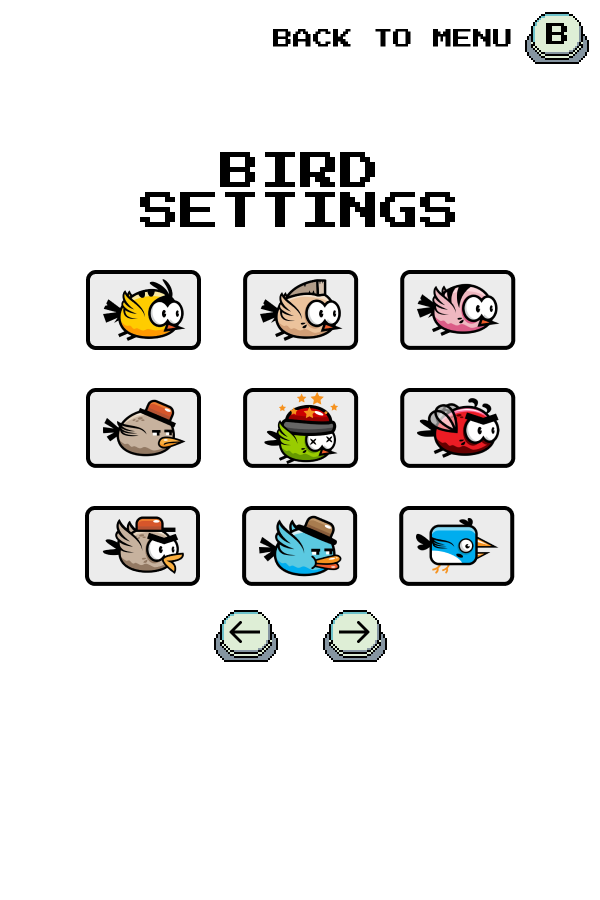
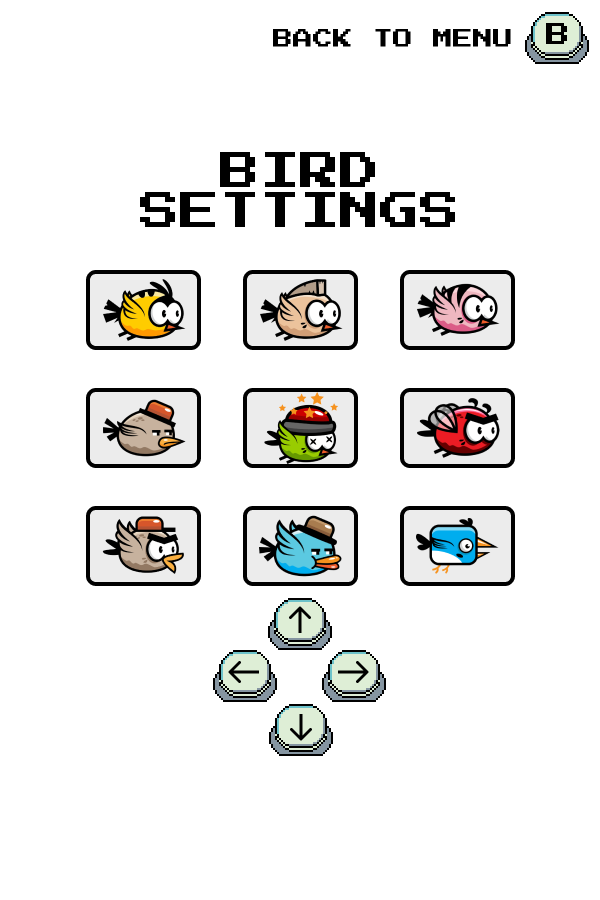
Add bird settings

diff --git a/main.py b/main.py
@@ -13,21 +13,18 @@ BACKGROUND_SETTINGS_LAYOUT = pygame.image.load('assets/layouts/background-settin
 BIRD_SETTINGS_LAYOUT = pygame.image.load('assets/layouts/bird-settings-layout.png')
 COLUMN_SETTINGS_LAYOUT = pygame.image.load('assets/layouts/column-settings-layout.png')
 VERTICAL_FRAME = pygame.image.load('assets/vertical-frame.png')
+HORIZONTAL_FRAME = pygame.image.load('assets/horizontal-frame.png')
 
 class Bird(pygame.sprite.Sprite):
     def __init__(self):
         pygame.sprite.Sprite.__init__(self)
 
-        self.birds = [
-            [
-                pygame.image.load('assets/birds/bird-0-up.png').convert_alpha(),
-                pygame.image.load('assets/birds/bird-0-down.png').convert_alpha()
-            ],
-            [
-                pygame.image.load('assets/birds/bird-1-up.png').convert_alpha(),
-                pygame.image.load('assets/birds/bird-1-down.png').convert_alpha()
-            ]
-        ]
+        self.birds = []
+        for i in range(9):
+            self.birds.append([
+                pygame.image.load(f'assets/birds/bird-{i}-up.png').convert_alpha(),
+                pygame.image.load(f'assets/birds/bird-{i}-down.png').convert_alpha()
+            ])
         self.fall = 0
         self.current_image = 0
         self.current_bird_idx = 0
@@ -40,9 +37,25 @@ class Bird(pygame.sprite.Sprite):
         self.rect[0] = settings.BIRD_INIT_X
         self.rect[1] = settings.BIRD_INIT_Y
 
-    def change_bird(self):
-        self.current_image = (self.current_bird_idx + 1) % len(self.birds)
-        self.current_bird = self.birds[self.current_bird_idx]
+    def change_bird_right(self):
+        if (self.current_bird_idx % 3 != 2):
+            self.current_bird_idx = (self.current_bird_idx + 1) % 9
+            self.current_bird = self.birds[self.current_bird_idx]
+
+    def change_bird_left(self):
+        if (self.current_bird_idx % 3 != 0):
+            self.current_bird_idx = (self.current_bird_idx - 1) % 9
+            self.current_bird = self.birds[self.current_bird_idx]
+    
+    def change_bird_up(self):
+        if (self.current_bird_idx // 3 != 0):
+            self.current_bird_idx = (self.current_bird_idx - 3) % 9
+            self.current_bird = self.birds[self.current_bird_idx]
+    
+    def change_bird_down(self):
+        if (self.current_bird_idx // 3 != 2):
+            self.current_bird_idx = (self.current_bird_idx + 3) % 9
+            self.current_bird = self.birds[self.current_bird_idx]
     
     def set_beige_bird(self):
         self.current_bird = self.birds['beige']
@@ -123,6 +136,30 @@ def background_settings_screen():
         )
     )
 
+def bird_settings_screen():
+    for event in pygame.event.get():
+        if event.type == pygame.QUIT:
+            pygame.quit()
+        elif event.type == pygame.KEYDOWN:
+            if event.key == pygame.K_b:
+                screen.state = ScreenState.MENU
+            elif event.key == pygame.K_RIGHT:
+                bird.change_bird_right()
+            elif event.key == pygame.K_LEFT:
+                bird.change_bird_left()
+            elif event.key == pygame.K_UP:
+                bird.change_bird_up()
+            elif event.key == pygame.K_DOWN:
+                bird.change_bird_down()
+    screen.blit(BIRD_SETTINGS_LAYOUT, (0, 0))
+    screen.blit(
+        HORIZONTAL_FRAME, 
+        (
+            settings.BIRD_SETTING_X + settings.BIRD_SETTING_WIDTH * (bird.current_bird_idx % 3), 
+            settings.BIRD_SETTING_Y + settings.BIRD_SETTING_HEIGHT * (bird.current_bird_idx // 3)
+        )
+    )
+
 def run_game():
     while True:
         pygame.time.Clock().tick(20)
@@ -158,6 +195,8 @@ if __name__ == "__main__":
             welcome_screen()
         elif screen.state == ScreenState.BACKGROUND_SETTINGS:
             background_settings_screen()
+        elif screen.state == ScreenState.BIRD_SETTINGS:
+            bird_settings_screen()
         elif screen.state == ScreenState.PLAY:
             run_game()
 

diff --git a/settings.py b/settings.py
@@ -9,3 +9,8 @@ BIRD_INIT_Y = 420
 BACKGROUND_SETTING_X = 86
 BACKGROUND_SETTING_Y = 383
 BACKGROUND_SETTING_WIDTH = 168
+
+BIRD_SETTING_X = 86
+BIRD_SETTING_Y = 270
+BIRD_SETTING_WIDTH = 157
+BIRD_SETTING_HEIGHT = 118
